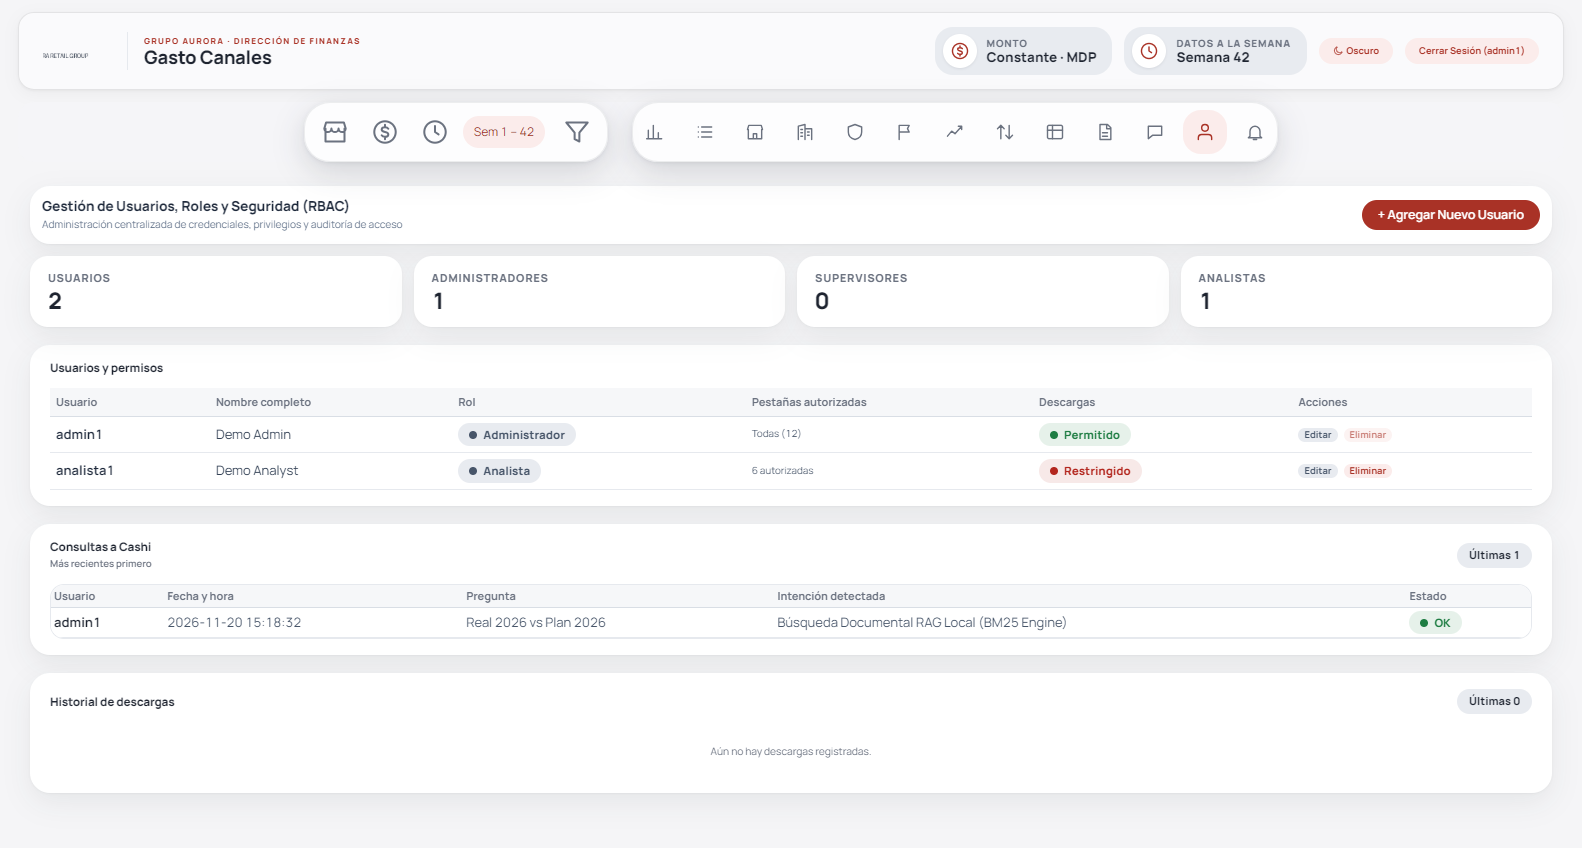
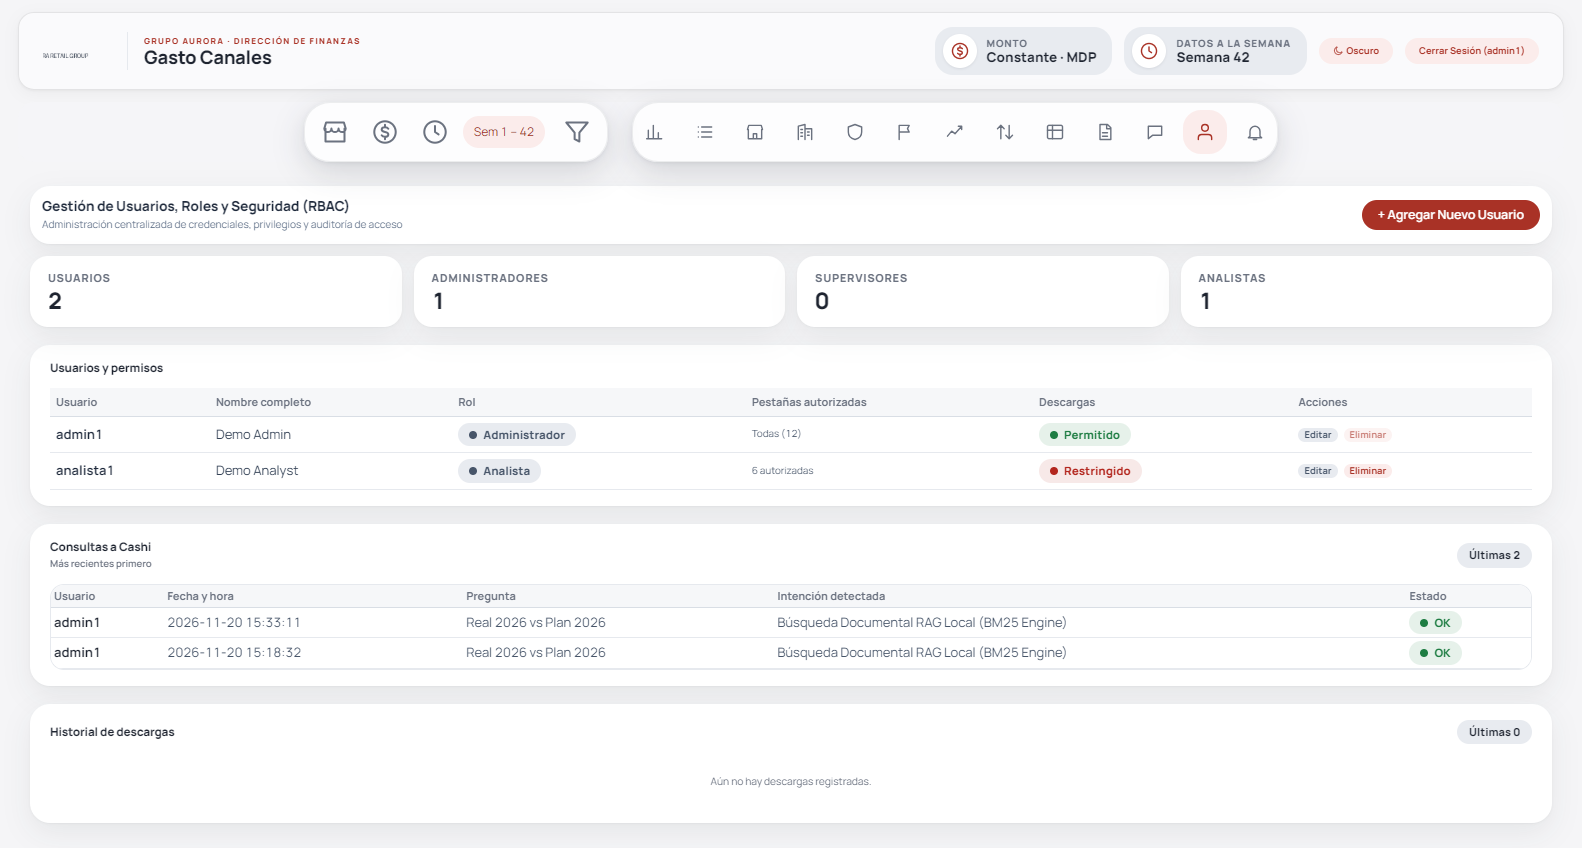
Regenerate recordings and keep each project's demo and code together

diff --git a/quant-lab/README.md b/quant-lab/README.md
@@ -1,0 +1,21 @@
+# Quantitative Finance Lab and Paper Trading
+
+An executed notebook of quantitative-finance methods and a local paper-trading simulator that applies one of them to a 7-asset portfolio.
+
+![Paper trading](demo/paper-trading.gif)
+
+Demo recordings: [`demo/paper-trading.gif`](demo/paper-trading.gif) (simulation page) and [`demo/notebook.gif`](demo/notebook.gif) (notebook as published).
+
+| Path | What it is |
+|------|-----------|
+| [`finanzas_cuantitativas.ipynb`](finanzas_cuantitativas.ipynb) | Executed notebook: returns, VaR/CVaR and Kupiec, Markowitz, ARIMA/SARIMA, ARCH/GARCH, Monte Carlo, Black-Scholes, backtesting, pairs trading, HMM and SGD, paper trading |
+| [`paper_trading/engine.py`](paper_trading/engine.py) | Simulator: 20/100 moving-average cross on META, NVDA, DBO, SPY, QQQ, CEG and SCHD with 100,000 USD, signal at the close of day t and fill at the close of t+1 with 5 bp slippage |
+| [`paper_trading/data/`](paper_trading/data) | The ledger: `equity.csv`, `trades.csv`, `state.json` |
+
+```bash
+pip install -r requirements.txt
+python paper_trading/engine.py --backfill 120   # first run: replay 120 days (tagged backfill)
+python paper_trading/engine.py                  # later: process only new closes (tagged live)
+```
+
+Only `live` rows are an out-of-sample record. A GitHub workflow updates the ledger every weekday after the US close. Educational material, not financial advice.

diff --git a/dash-app/README.md b/dash-app/README.md
@@ -2,7 +2,9 @@
 
 Production-style weekly spend dashboard for a multi-division retail group, with a data pipeline, an analytics warehouse, a multi-tab Plotly Dash app, role-based users, Excel/PDF exports and a rule-based chat assistant (Cashi) that needs no LLM.
 
-![Tour](../docs/dash-app/media/tour.gif)
+![Tour](demo/tour.gif)
+
+Demo recording: [`demo/tour.gif`](demo/tour.gif). Code: [`codigo/`](codigo) (pipeline), [`dash_app/`](dash_app) (app), [`rag/`](rag) (assistant and monitoring), [`synthetic/`](synthetic) (demo data and recorder).
 
 This folder is the source code of the application plus a synthetic-data generator so it runs end to end. Company identifiers, credentials, internal hostnames, people, catalogs, real figures and branded assets were removed or replaced with neutral placeholders (`Aurora`, `<SHARED_DRIVE>`, `sql-server.example.local`). There is **no real data**. `synthetic/make_consolidado.py` writes the same input files the pipeline expects (weekly actual, plan and forecast extracts, the structure and account catalogs in Excel, a forecast workbook and demo users), so the real pipeline and the real app run unchanged. The recorded tour above was captured from the app running on that data. A smaller, fully rewritten version of the same ideas is in [`../opex-control`](../opex-control).
 

diff --git a/support-agent/README.md b/support-agent/README.md
@@ -2,6 +2,10 @@
 
 An LLM-powered support assistant for a fictional buy-now-pay-later company (**Payly**). It answers policy questions, looks up a customer's own orders and installments, combines both when the answer depends on the two, and hands risky cases to a human, with structural guardrails around data access and invented numbers.
 
+![Agent tour](demo/tour.gif)
+
+Demo recording with the real local model: [`demo/tour.gif`](demo/tour.gif). Code: [`agent/`](agent), [`eval/`](eval), [`web/`](web), [`tests/`](tests).
+
 Everything here is synthetic: 12 policy documents, 8 customers and 14 orders (`data/build_data.py`, "today" is 2026-11-20).
 
 ## How a request flows

diff --git a/opex-control/README.md b/opex-control/README.md
@@ -4,7 +4,9 @@ A weekly operating-expense control tower for a fictional retail group (**Aurora 
 
 All data is synthetic and generated by `pipeline/generate_data.py`. It has the shape of a real finance mart (a weekly fact table at location x account grain with a four-level location hierarchy and an account-group tree), so the architecture is the part that carries over.
 
-![Tour](../docs/opex-control/media/tour.gif)
+![Tour](demo/tour.gif)
+
+Demo recording: [`demo/tour.gif`](demo/tour.gif). Code: [`pipeline/`](pipeline), [`monitoring/`](monitoring), [`core/`](core), [`app/`](app), [`assistant/`](assistant), [`tests/`](tests).
 
 ## Architecture
 

diff --git a/dashboard/README.md b/dashboard/README.md
@@ -1,5 +1,9 @@
 # Territory Dashboard
 
+![Demo](demo/territory-dashboard.gif)
+
+Static demo recording: [`demo/territory-dashboard.gif`](demo/territory-dashboard.gif).
+
 Interactive **territorial finance dashboard** with drill-down (division → PDC), account trees, cierres, and quarterly views.
 
 This project includes **two runnable versions**:

diff --git a/chatbot/README.md b/chatbot/README.md
@@ -1,5 +1,9 @@
 # Cashi RAG
 
+![Demo](demo/cashi-rag.gif)
+
+Static demo recording: [`demo/cashi-rag.gif`](demo/cashi-rag.gif).
+
 Local **Retrieval-Augmented Generation** for financial/code knowledge: indexing, search, optional numeric engine, HTTP API, **Streamlit UI**, and a **static HTML/JS** demo for GitHub Pages.
 
 ---
